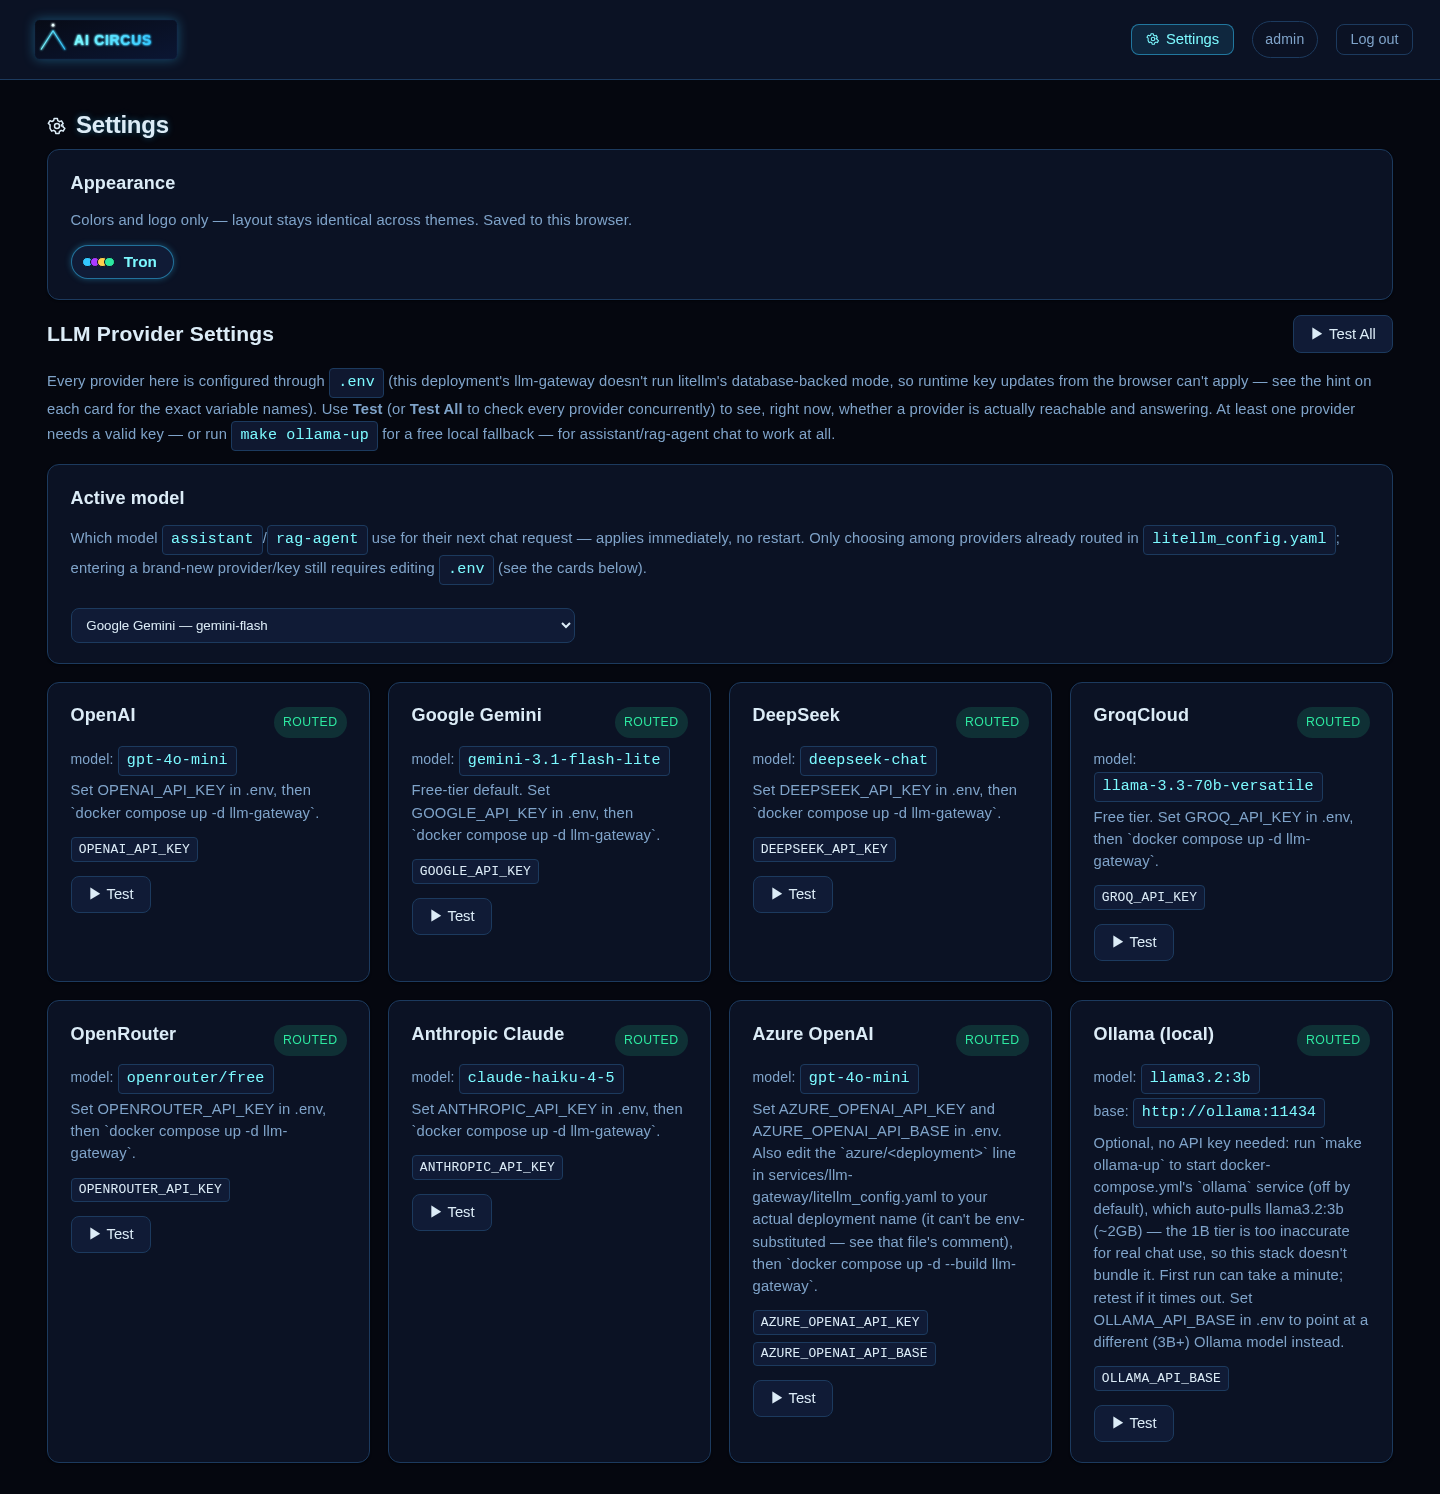
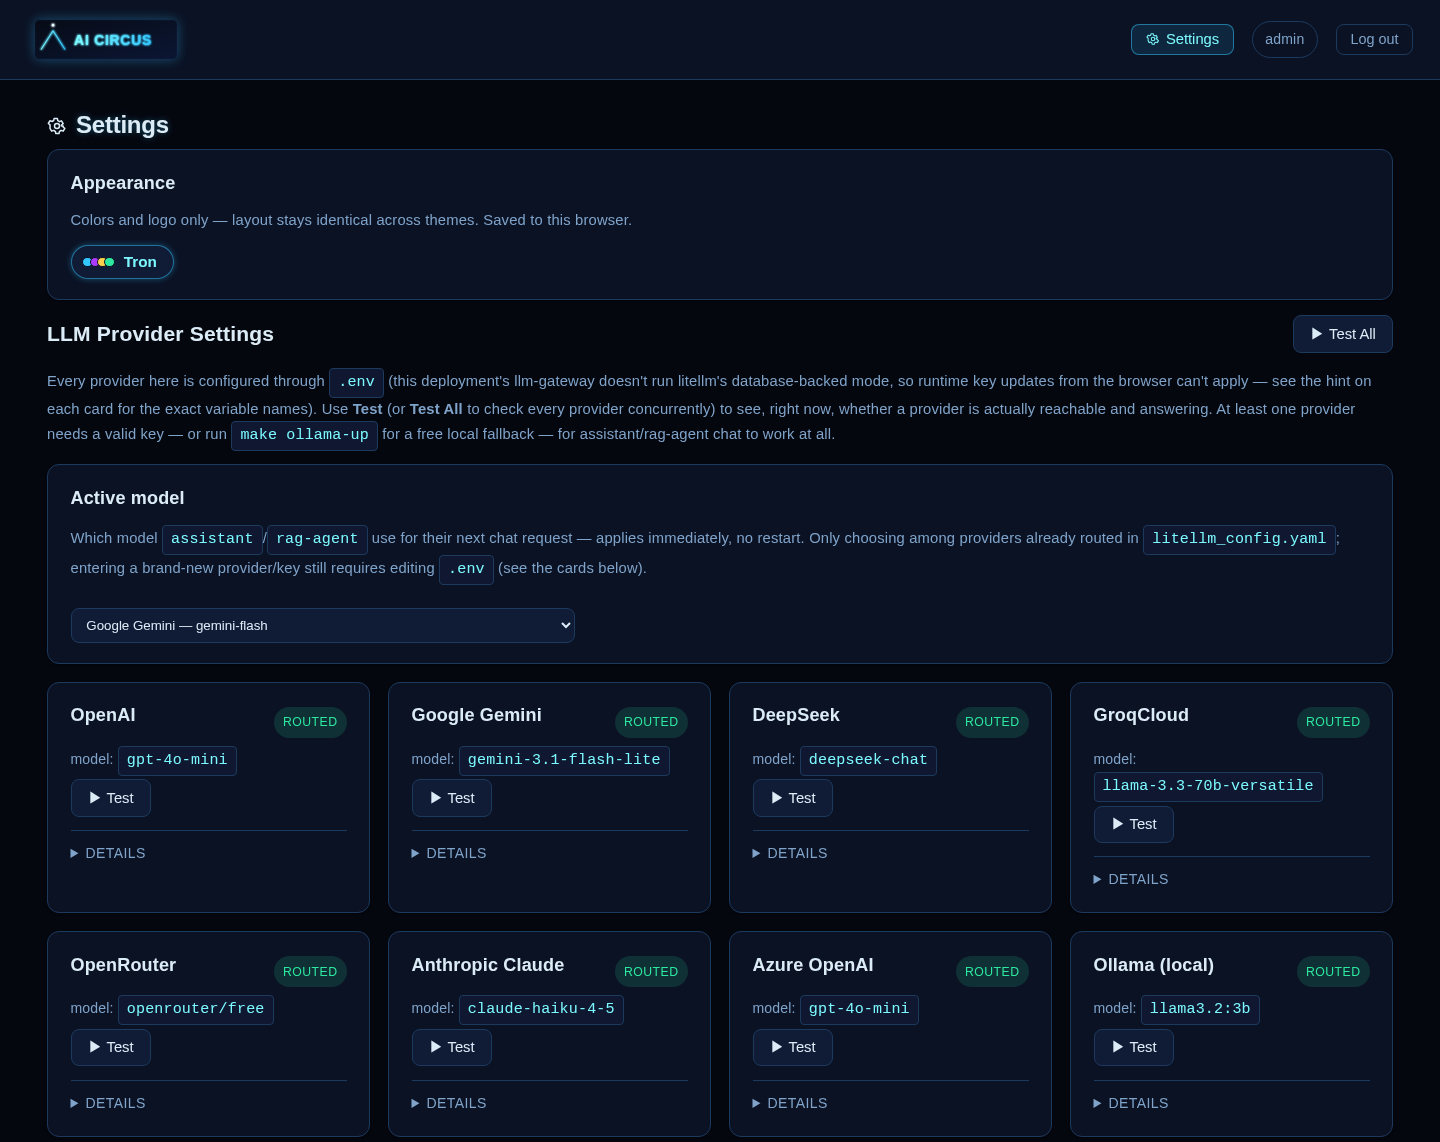
feat: fancy architecture diagram, tighter LLM settings cards
Replaces the ASCII architecture diagram in the README with a rendered,
Tron-styled PNG matching the app's own theme. Also trims each LLM
provider card in Settings down to its high-level state (label, badge,
model, Test) with the model/base/hint/env-var details tucked behind an
expandable "Details" section, and caps the provider test call at a 10s
timeout so an unreachable local Ollama no longer stalls Test/Test All.

diff --git a/ui-react/src/Settings.tsx b/ui-react/src/Settings.tsx
@@ -204,19 +204,6 @@ export function Settings({
                     <div className="settings-card-model">
                       model: <code>{p.model ?? "—"}</code>
                     </div>
-                    {p.api_base && (
-                      <div className="settings-card-model">
-                        base: <code>{p.api_base}</code>
-                      </div>
-                    )}
-                    <p className="panel-hint">{p.hint}</p>
-                    <div className="settings-card-envvars">
-                      {p.env_vars.map((v) => (
-                        <code key={v} className="settings-envvar">
-                          {v}
-                        </code>
-                      ))}
-                    </div>
                     <button
                       className="btn-secondary"
                       onClick={() => runTest(p.provider)}
@@ -235,6 +222,22 @@ export function Settings({
                         )}
                       </div>
                     )}
+                    <details className="settings-card-details">
+                      <summary>Details</summary>
+                      {p.api_base && (
+                        <div className="settings-card-model">
+                          base: <code>{p.api_base}</code>
+                        </div>
+                      )}
+                      <p className="panel-hint">{p.hint}</p>
+                      <div className="settings-card-envvars">
+                        {p.env_vars.map((v) => (
+                          <code key={v} className="settings-envvar">
+                            {v}
+                          </code>
+                        ))}
+                      </div>
+                    </details>
                   </div>
                 );
               })}

diff --git a/ui-react/src/App.css b/ui-react/src/App.css
@@ -1233,6 +1233,35 @@ select:focus {
   color: var(--red);
 }
 
+.settings-card-details {
+  margin-top: 0.75rem;
+  border-top: 1px solid var(--border);
+  padding-top: 0.5rem;
+}
+
+.settings-card-details summary {
+  cursor: pointer;
+  color: var(--dim);
+  font-size: 0.78rem;
+  letter-spacing: 0.03em;
+  text-transform: uppercase;
+  transition: color 0.15s, text-shadow 0.15s;
+}
+
+.settings-card-details summary:hover {
+  color: var(--accent-2);
+  text-shadow: var(--glow-accent-soft);
+}
+
+.settings-card-details[open] summary {
+  color: var(--accent);
+  margin-bottom: 0.5rem;
+}
+
+.settings-card-details .settings-card-model:first-of-type {
+  margin-top: 0;
+}
+
 .topbar-settings {
   display: inline-flex;
   align-items: center;

diff --git a/services/platform-registry/src/platform_registry/core/llm_settings.py b/services/platform-registry/src/platform_registry/core/llm_settings.py
@@ -189,7 +189,11 @@ def test_provider(base_url: str, master_key: str, provider: str) -> dict[str, ob
                     "messages": [{"role": "user", "content": "Reply with exactly one word: ok"}],
                     "max_tokens": 5,
                 },
-                timeout=30.0,
+                # 10s, not litellm's own (much longer) provider-level retry/timeout budget —
+                # an unreachable Ollama base is the common case this guards against: without
+                # this, a single dead local Ollama container can make "Test"/"Test All" hang
+                # far longer than any of the real cloud providers ever would.
+                timeout=10.0,
             )
         except httpx.HTTPError as exc:
             return {"ok": False, "error": str(exc), "latency_ms": None}

diff --git a/README.md b/README.md
@@ -215,33 +215,9 @@ surfaced in the Data tab.
 
 ## Architecture
 
-```
-                        ┌─────────────┐
-                  ┌────▶│   Traefik   │◀──── single ingress point (*.localhost)
-                  │     └─────────────┘
-      ┌───────────┼───────────────────────┬─────────────────────┐
-      │           │                       │                     │
-┌─────▼─────┐ ┌───▼─────────────┐ ┌───────▼───┐       ┌─────────▼────┐
-│ ui-react  │ │platform-registry│ │llm-gateway│       │ prediction /  │
-│(Logto OIDC)│ │ (tenants/roles) │ │ (LiteLLM) │       │ assistant /   │
-└───────────┘ └───────┬─────────┘ └─────┬─────┘       │ rag-agent     │
-                       │                 │             └──────┬───────┘
-                 ┌─────▼─────┐     ┌─────▼─────┐              │
-                 │  Postgres  │     │  Qdrant   │◀─────────────┘
-                 │(logto+     │     │(per-tenant│
-                 │ platform)  │     │collections│
-                 └─────┬──────┘     └───────────┘
-                       │
-                 ┌─────▼─────┐            ┌──────────────┐
-                 │   Logto    │            │    MinIO     │◀── datasets, models,
-                 │(IDP/tenants)│            │(object store)│    documents
-                 └────────────┘            └──────┬───────┘
-                                                   │
-                                      ┌────────────┴────────────┐
-                                      │ etl-tabular / training / │
-                                      │      etl-vectorize      │
-                                      └──────────────────────────┘
-```
+<p align="center">
+  <img src="docs/screenshots/architecture.png" alt="ai-circus-framework architecture diagram" width="900">
+</p>
 
 Runs today via `docker compose up`; designed — not yet built — to migrate to
 minikube/Kubernetes later (see [Kubernetes path](#kubernetes-path-documented-not-yet-built)).
